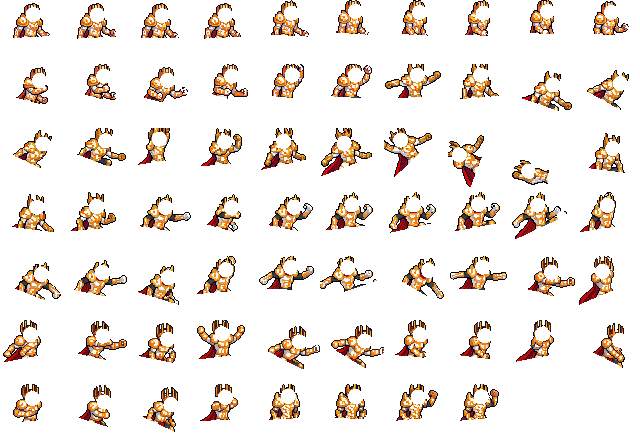
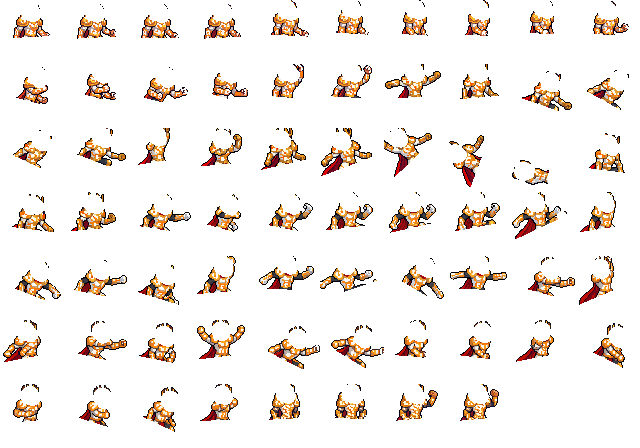
Raid-Helme: Kopf schaut nicht mehr raus (#73)
* Raid-Rüstung Essenwacht in sechs Seltenheiten, Ungewöhnlich und Mythisch im Loot

- Loot: 6 Seltenheiten (neu Ungewöhnlich und Mythisch) mit Konstanten, Drop-Tabellen,
  Umrechnung alter Spielstände (rarity_version), Pass/Gacha-Daten umgestellt
- RaidArmor: Harnisch, Beinschienen, Stiefel je Seltenheit, Raid-Boss lässt ein Teil fallen,
  schaltet Outfit und Helm im Character Creator frei
- PixelLab (55 Generierungen): 6 Outfits über alle 68 Posen, 6 Helme, 18 Icons
- Glühen ab Episch (Shader + Bloom + Funken), Mythisch mit Lichtwelle
- CI: Logiktest und Schaubild (Branch ci-bilder/ruestung)

Claude-Session: https://claude.ai/code/session_012CKTc9pHvqt14P31JnR8dy

* Raid-Helme: Kopf schaut nicht mehr raus

Helme mit covers_head blenden den Kopf des Körpers aus und drehen voll mit,
Helm-Ebenen mit Gesicht neu geschnitten, Kopfkreis in den Raid-Oberteilen frei.
Gilt auch für den Bollwerk-Helm. Keine neue PixelLab-Generierung.

Claude-Session: https://claude.ai/code/session_012CKTc9pHvqt14P31JnR8dy

---------

diff --git a/tools/raid_armor/helm_preview.py b/tools/raid_armor/helm_preview.py
@@ -1,0 +1,45 @@
+"""Alle Posen mit Helm wie im Spiel (LayeredBody): Helm am Hals-Anker gedreht,
+Kopf des Körpers bei covers_head ausgeblendet.  python3 helm_preview.py <out.png> <seltenheit|hair-id> [outfit]"""
+import json, math, sys
+from pathlib import Path
+from PIL import Image
+ROOT = Path(__file__).resolve().parents[2]
+R = ROOT / "assets/creator/parts"
+anch = json.load(open(ROOT / "assets/creator/base/anchors.json"))["frames"]
+meta = json.load(open(R / "hair/hair.json"))
+body = Image.open(ROOT / "assets/creator/body/sheet.png").convert("RGBA")
+hid = sys.argv[2] if sys.argv[2] in meta else "raid_" + sys.argv[2]
+outfit = sys.argv[3] if len(sys.argv) > 3 else hid
+HC, HR = (0.0, -11.0), 10.0
+cells = lambda s, i: s.crop(((i % 10) * 64, (i // 10) * 64, (i % 10) * 64 + 64, (i // 10) * 64 + 64))
+layers = [Image.open(R / s / f"{outfit}.png").convert("RGBA") for s in ("pants", "shoes", "top") if (R / s / f"{outfit}.png").exists()]
+helm = Image.open(R / f"hair/{hid}.png").convert("RGBA")
+m = meta[hid]; cover = m.get("covers_head", False)
+sheet = Image.new("RGBA", (640, 7 * 64), (40, 34, 48, 255))
+for i, f in enumerate(anch):
+    da = (f["head"]["angle"] - m["angle"] + 180) % 360 - 180
+    if not cover:
+        da = max(-40, min(40, da))
+    if abs(da) < 12:
+        da = 0
+    rot = -math.radians(da)
+    b = cells(body, i)
+    if cover:
+        cx = f["head"]["pos"][0] + HC[0] * math.cos(rot) - HC[1] * math.sin(rot)
+        cy = f["head"]["pos"][1] + HC[0] * math.sin(rot) + HC[1] * math.cos(rot)
+        p = b.load()
+        for y in range(64):
+            for x in range(64):
+                if math.dist((x + 0.5, y + 0.5), (cx, cy)) < HR:
+                    p[x, y] = (0, 0, 0, 0)
+    for l in layers:
+        b.alpha_composite(cells(l, i))
+    big = Image.new("RGBA", (192, 192))
+    nx, ny = m["neck"]
+    big.alpha_composite(helm, (int(round(96 - nx)), int(round(96 - ny))))
+    big = big.rotate(da, resample=Image.NEAREST, center=(96, 96))
+    t = Image.new("RGBA", (256, 256)); t.alpha_composite(b, (96, 96))
+    hx, hy = f["head"]["pos"]
+    t.alpha_composite(big, (int(round(96 + hx - 96)), int(round(96 + hy - 96))))
+    sheet.alpha_composite(t.crop((96, 96, 160, 160)), ((i % 10) * 64, (i // 10) * 64))
+sheet.resize((1280, 7 * 128), Image.NEAREST).save(sys.argv[1])

diff --git a/tools/raid_armor/helm_layers.py b/tools/raid_armor/helm_layers.py
@@ -1,0 +1,43 @@
+"""Helm-Ebenen neu aus dem PixelLab-Bild (_<id>_komplett.png) schneiden, ohne Generierung.
+
+Helme mit covers_head (hair.json) blenden im Spiel den Kopf des Körpers aus. Die Ebene
+braucht deshalb den ganzen Kopf inklusive Gesicht: alle Pixel im Kopfkreis plus alles,
+was PixelLab gegenüber dem Körper verändert hat (Helmrand, Federbusch, Hörner).
+  python3 tools/raid_armor/helm_layers.py raid_episch bollwerk_helm ...
+"""
+import json, math, sys
+from pathlib import Path
+from PIL import Image
+
+ROOT = Path(__file__).resolve().parents[2]
+HAIR = ROOT / "assets/creator/parts/hair"
+BODY = ROOT / "assets/creator/body/frames/idle_0.png"
+HEAD_CENTER = (0.0, -11.0)  # wie LayeredBody.HEAD_CENTER
+HEAD_R = 10.0                # wie head_r im Shader
+meta = json.loads((HAIR / "hair.json").read_text())
+body = Image.open(BODY).convert("RGBA")
+for hid in sys.argv[1:]:
+    full = Image.open(HAIR / f"_{hid}_komplett.png").convert("RGBA")
+    nx, ny = meta[hid]["neck"]
+    cx, cy = nx + HEAD_CENTER[0], ny + HEAD_CENTER[1]
+    bp, fp = body.load(), full.load()
+    out = Image.new("RGBA", (64, 64)); op = out.load()
+    chg = [[fp[x, y][3] > 0 and (bp[x, y][3] == 0 or sum(abs(fp[x, y][j] - bp[x, y][j]) for j in range(3)) > 40)
+            for y in range(64)] for x in range(64)]
+    for y in range(64):
+        for x in range(64):
+            c = fp[x, y]
+            if c[3] == 0:
+                continue
+            inside = math.dist((x + 0.5, y + 0.5), (cx, cy)) < HEAD_R + 1.5
+            # unveränderte Kopfpixel (Gesicht) nur, wenn der Helm sie umschließt:
+            # Helm darüber und links und rechts davon; so bleibt die Glatze draußen
+            enclosed = (any(chg[x][k] for k in range(y)) and any(chg[k][y] for k in range(x))
+                        and any(chg[k][y] for k in range(x + 1, 64)))
+            if chg[x][y]:
+                if y < ny + 1 or math.dist((x, y), (nx, ny)) < 14:
+                    op[x, y] = c
+            elif inside and enclosed:
+                op[x, y] = c
+    out.save(HAIR / f"{hid}.png")
+    print(hid)

diff --git a/tools/raid_armor/clear_head_in_top.py b/tools/raid_armor/clear_head_in_top.py
@@ -1,0 +1,25 @@
+"""Raid-Oberteile: Pixel im Kopfkreis jeder Pose entfernen (PixelLab malt manchmal
+Kronen oder Kragen auf den Kopf; der Helm sitzt dort). Gleiche Geometrie wie LayeredBody."""
+import json, math
+from pathlib import Path
+from PIL import Image
+ROOT = Path(__file__).resolve().parents[2]
+anch = json.load(open(ROOT / "assets/creator/base/anchors.json"))["frames"]
+hair = json.load(open(ROOT / "assets/creator/parts/hair/hair.json"))
+HC, R = (0.0, -11.0), 10.0
+for top in sorted((ROOT / "assets/creator/parts/top").glob("raid_*.png")):
+    ref = hair[top.stem]["angle"]
+    im = Image.open(top).convert("RGBA"); px = im.load(); n = 0
+    for i, f in enumerate(anch):
+        da = (f["head"]["angle"] - ref + 180) % 360 - 180
+        if abs(da) < 12:
+            da = 0
+        rot = -math.radians(da)
+        cx = f["head"]["pos"][0] + HC[0] * math.cos(rot) - HC[1] * math.sin(rot)
+        cy = f["head"]["pos"][1] + HC[0] * math.sin(rot) + HC[1] * math.cos(rot)
+        ox, oy = (i % 10) * 64, (i // 10) * 64
+        for y in range(64):
+            for x in range(64):
+                if px[ox + x, oy + y][3] and math.dist((x + 0.5, y + 0.5), (cx, cy)) < R - 0.5:
+                    px[ox + x, oy + y] = (0, 0, 0, 0); n += 1
+    im.save(top); print(top.name, n)

diff --git a/docs/raid-ruestung.md b/docs/raid-ruestung.md
@@ -45,3 +45,12 @@ Stand 6. November 2026. Erste Raid-Rüstung, Beute vom Essenwächter in der Glut
 - `tools/raid_armor/preview.py`, `sheet_preview.py`: Vorschaubilder.
 - Tests: `tools/raid_armor/test_armor.gd` (CI), Schaubild `tools/raid_armor/probe.gd`
   (CI legt die Bilder auf den Branch `ci-bilder/ruestung`).
+
+## Helme decken den ganzen Kopf ab (Fix 6. November)
+
+- Helme mit `covers_head` in `hair.json` (alle `raid_*` und `bollwerk_helm`) blenden den Kopf
+  des Körpers aus (Shader `head_hide`, Kreis Radius 10 um `LayeredBody.HEAD_CENTER`) und drehen
+  sich voll mit dem Kopf (auch liegend; Ankerwinkel werden auf ±180° normalisiert).
+- `tools/raid_armor/helm_layers.py` schneidet die Helm-Ebene aus dem PixelLab-Bild neu
+  (mit Gesicht, ohne Glatze), `clear_head_in_top.py` entfernt Kronen/Kragen-Pixel im Kopfkreis
+  der Oberteile, `helm_preview.py` zeigt alle 68 Posen wie im Spiel.
